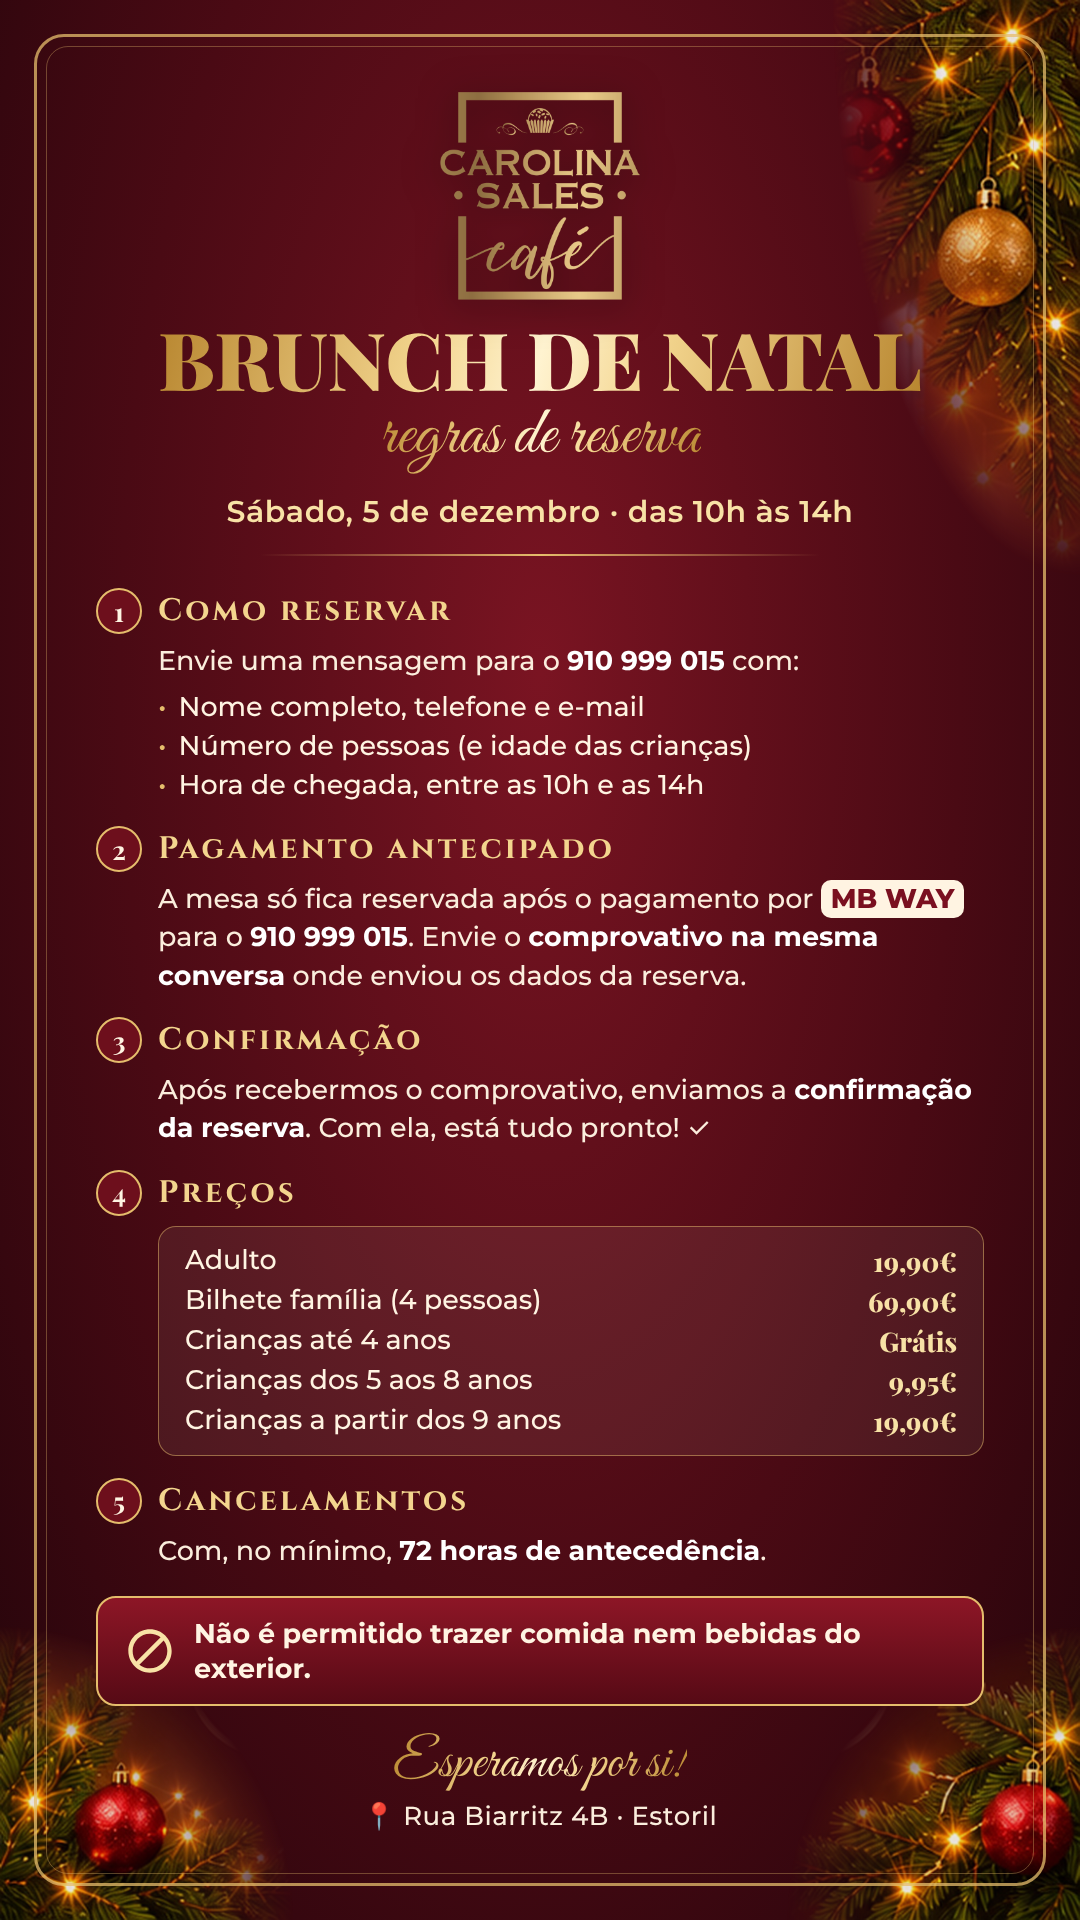
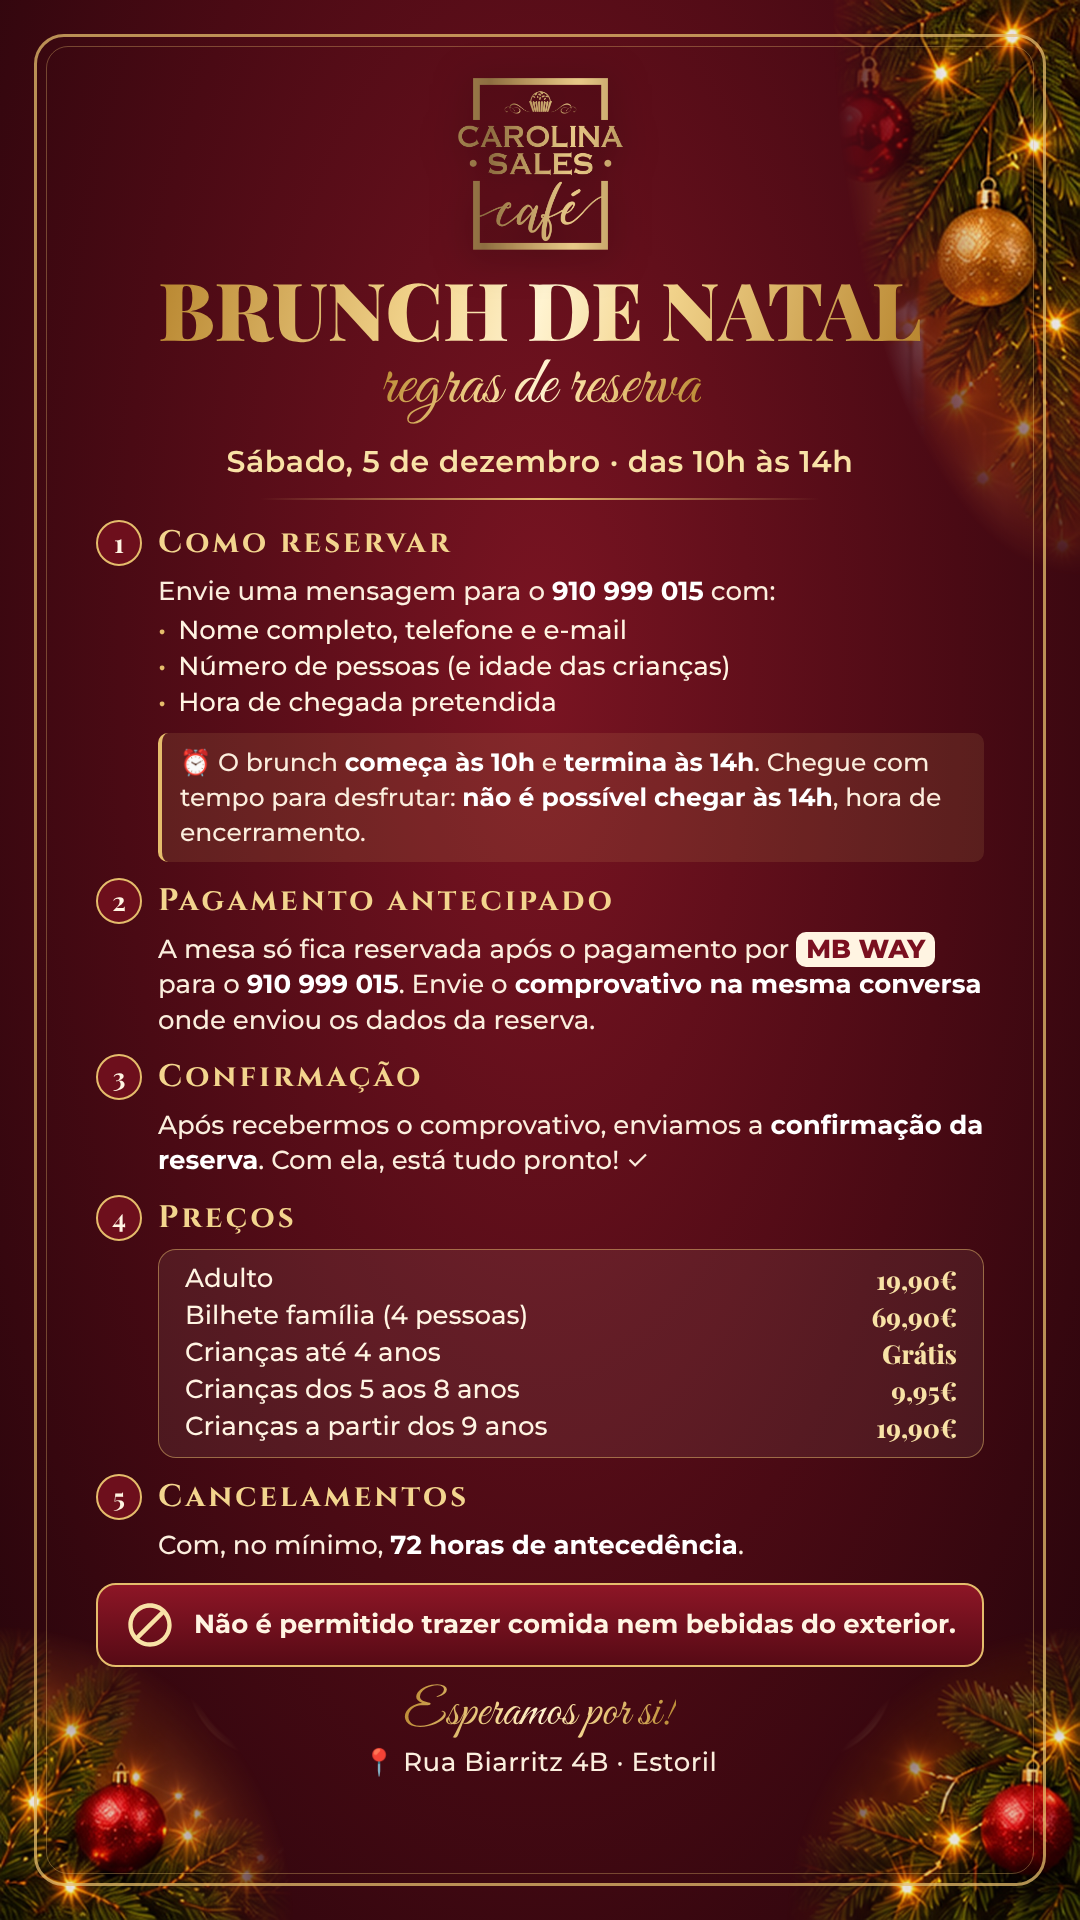
Clarify brunch arrival time in reservation rules image
Claude-Session: https://claude.ai/code/session_012MqLGRJpCyxpKQDvwKC6dA

Changed region(s): [[0.0917, 0.0312, 0.9167, 0.9688], [0.7944, 0.6562, 0.8861, 0.75]]

diff --git a/brunch-natal-reels/regras-reserva/regras.html b/brunch-natal-reels/regras-reserva/regras.html
@@ -7,24 +7,26 @@ body{width:1080px;height:1920px;overflow:hidden;background:radial-gradient(ellip
 .pine{position:absolute;opacity:.9}
 .frame{position:absolute;inset:34px;border:3px solid rgba(229,189,108,.75);border-radius:30px}
 .frame2{position:absolute;inset:46px;border:1.5px solid rgba(229,189,108,.35);border-radius:22px}
-.wrap{position:relative;padding:92px 96px 0;display:flex;flex-direction:column;align-items:center;text-align:center}
-.logo{width:200px;filter:drop-shadow(0 6px 18px rgba(0,0,0,.5))}
+.wrap{position:relative;padding:78px 96px 0;display:flex;flex-direction:column;align-items:center;text-align:center}
+.logo{width:165px;filter:drop-shadow(0 6px 18px rgba(0,0,0,.5))}
 h1{font-family:Play;font-weight:900;font-size:80px;line-height:1;margin-top:18px}
 .sub{font-family:Vibes;font-size:68px;margin-top:-4px}
 .info{font-size:30px;font-weight:600;margin-top:14px;color:#f8e2a6;letter-spacing:.02em}
-.div{width:560px;height:2px;background:linear-gradient(90deg,transparent,#e5bd6c,transparent);margin:24px 0 10px}
-.sec{width:100%;text-align:left;margin-top:22px}
+.div{width:560px;height:2px;background:linear-gradient(90deg,transparent,#e5bd6c,transparent);margin:18px 0 4px}
+.sec{width:100%;text-align:left;margin-top:16px}
 .st{display:flex;align-items:center;gap:16px;font-family:Cinzel;font-weight:700;font-size:31px;letter-spacing:.1em;color:#f3d58e}
 .n{flex:none;width:46px;height:46px;border-radius:50%;border:2.5px solid #e5bd6c;display:flex;align-items:center;justify-content:center;font-family:Play;font-size:26px;color:#fff4e2;background:#6d0f1c;letter-spacing:0}
-.tx{font-size:27px;line-height:1.42;margin:8px 0 0 62px;font-weight:500;color:#fbeedd}
+.tx{font-size:26px;line-height:1.36;margin:8px 0 0 62px;font-weight:500;color:#fbeedd}
 .tx b{color:#fff;font-weight:700}
-.list{margin:6px 0 0 62px;font-size:27px;line-height:1.45;font-weight:500}
+.list{margin:4px 0 0 62px;font-size:26px;line-height:1.38;font-weight:500}
 .list div::before{content:"•";color:#e5bd6c;margin-right:12px}
-.price{display:grid;grid-template-columns:1fr auto;gap:4px 20px;margin:10px 0 0 62px;font-size:27px;font-weight:500;background:rgba(255,244,226,.07);border:1.5px solid rgba(229,189,108,.5);border-radius:18px;padding:16px 26px}
+.price{display:grid;grid-template-columns:1fr auto;gap:2px 20px;margin:8px 0 0 62px;font-size:26px;font-weight:500;background:rgba(255,244,226,.07);border:1.5px solid rgba(229,189,108,.5);border-radius:18px;padding:12px 26px}
 .price span:nth-child(even){font-family:Play;font-weight:800;color:#f8e2a6;text-align:right}
-.warn{margin-top:26px;width:100%;display:flex;align-items:center;gap:18px;background:linear-gradient(180deg,#8d1626,#560a15);border:2.5px solid #e5bd6c;border-radius:20px;padding:18px 26px;font-size:27px;font-weight:700;text-align:left;line-height:1.3}
+.warn{margin-top:20px;width:100%;display:flex;align-items:center;gap:18px;background:linear-gradient(180deg,#8d1626,#560a15);border:2.5px solid #e5bd6c;border-radius:20px;padding:14px 26px;font-size:26px;font-weight:700;text-align:left;line-height:1.3}
 .warn svg{flex:none;width:52px;height:52px}
-.foot{margin-top:24px;font-family:Vibes;font-size:54px}
+.note{margin:12px 0 0 62px;font-size:25px;line-height:1.4;font-weight:500;color:#fbeedd;background:rgba(229,189,108,.12);border-left:4px solid #e5bd6c;border-radius:10px;padding:12px 18px}
+.note b{color:#fff;font-weight:700}
+.foot{margin-top:14px;font-family:Vibes;font-size:50px}
 .mb{display:inline-block;background:#fff4e2;color:#7a1020;font-weight:800;border-radius:10px;padding:0 10px}
 </style></head><body>
 <img class="pine" src="pineTR.jpg" style="right:0;top:0;width:250px;-webkit-mask-image:radial-gradient(ellipse at 100% 0%,#000 40%,transparent 70%)">
@@ -40,7 +42,8 @@ h1{font-family:Play;font-weight:900;font-size:80px;line-height:1;margin-top:18px
 
  <div class="sec"><div class="st"><span class="n">1</span>Como reservar</div>
   <div class="tx">Envie uma mensagem para o <b>910 999 015</b> com:</div>
-  <div class="list"><div>Nome completo, telefone e e-mail</div><div>Número de pessoas (e idade das crianças)</div><div>Hora de chegada, entre as 10h e as 14h</div></div></div>
+  <div class="list"><div>Nome completo, telefone e e-mail</div><div>Número de pessoas (e idade das crianças)</div><div>Hora de chegada pretendida</div></div>
+  <div class="note">⏰ O brunch <b>começa às 10h</b> e <b>termina às 14h</b>. Chegue com tempo para desfrutar: <b>não é possível chegar às 14h</b>, hora de encerramento.</div></div>
 
  <div class="sec"><div class="st"><span class="n">2</span>Pagamento antecipado</div>
   <div class="tx">A mesa só fica reservada após o pagamento por <span class="mb">MB WAY</span> para o <b>910 999 015</b>. Envie o <b>comprovativo na mesma conversa</b> onde enviou os dados da reserva.</div></div>
